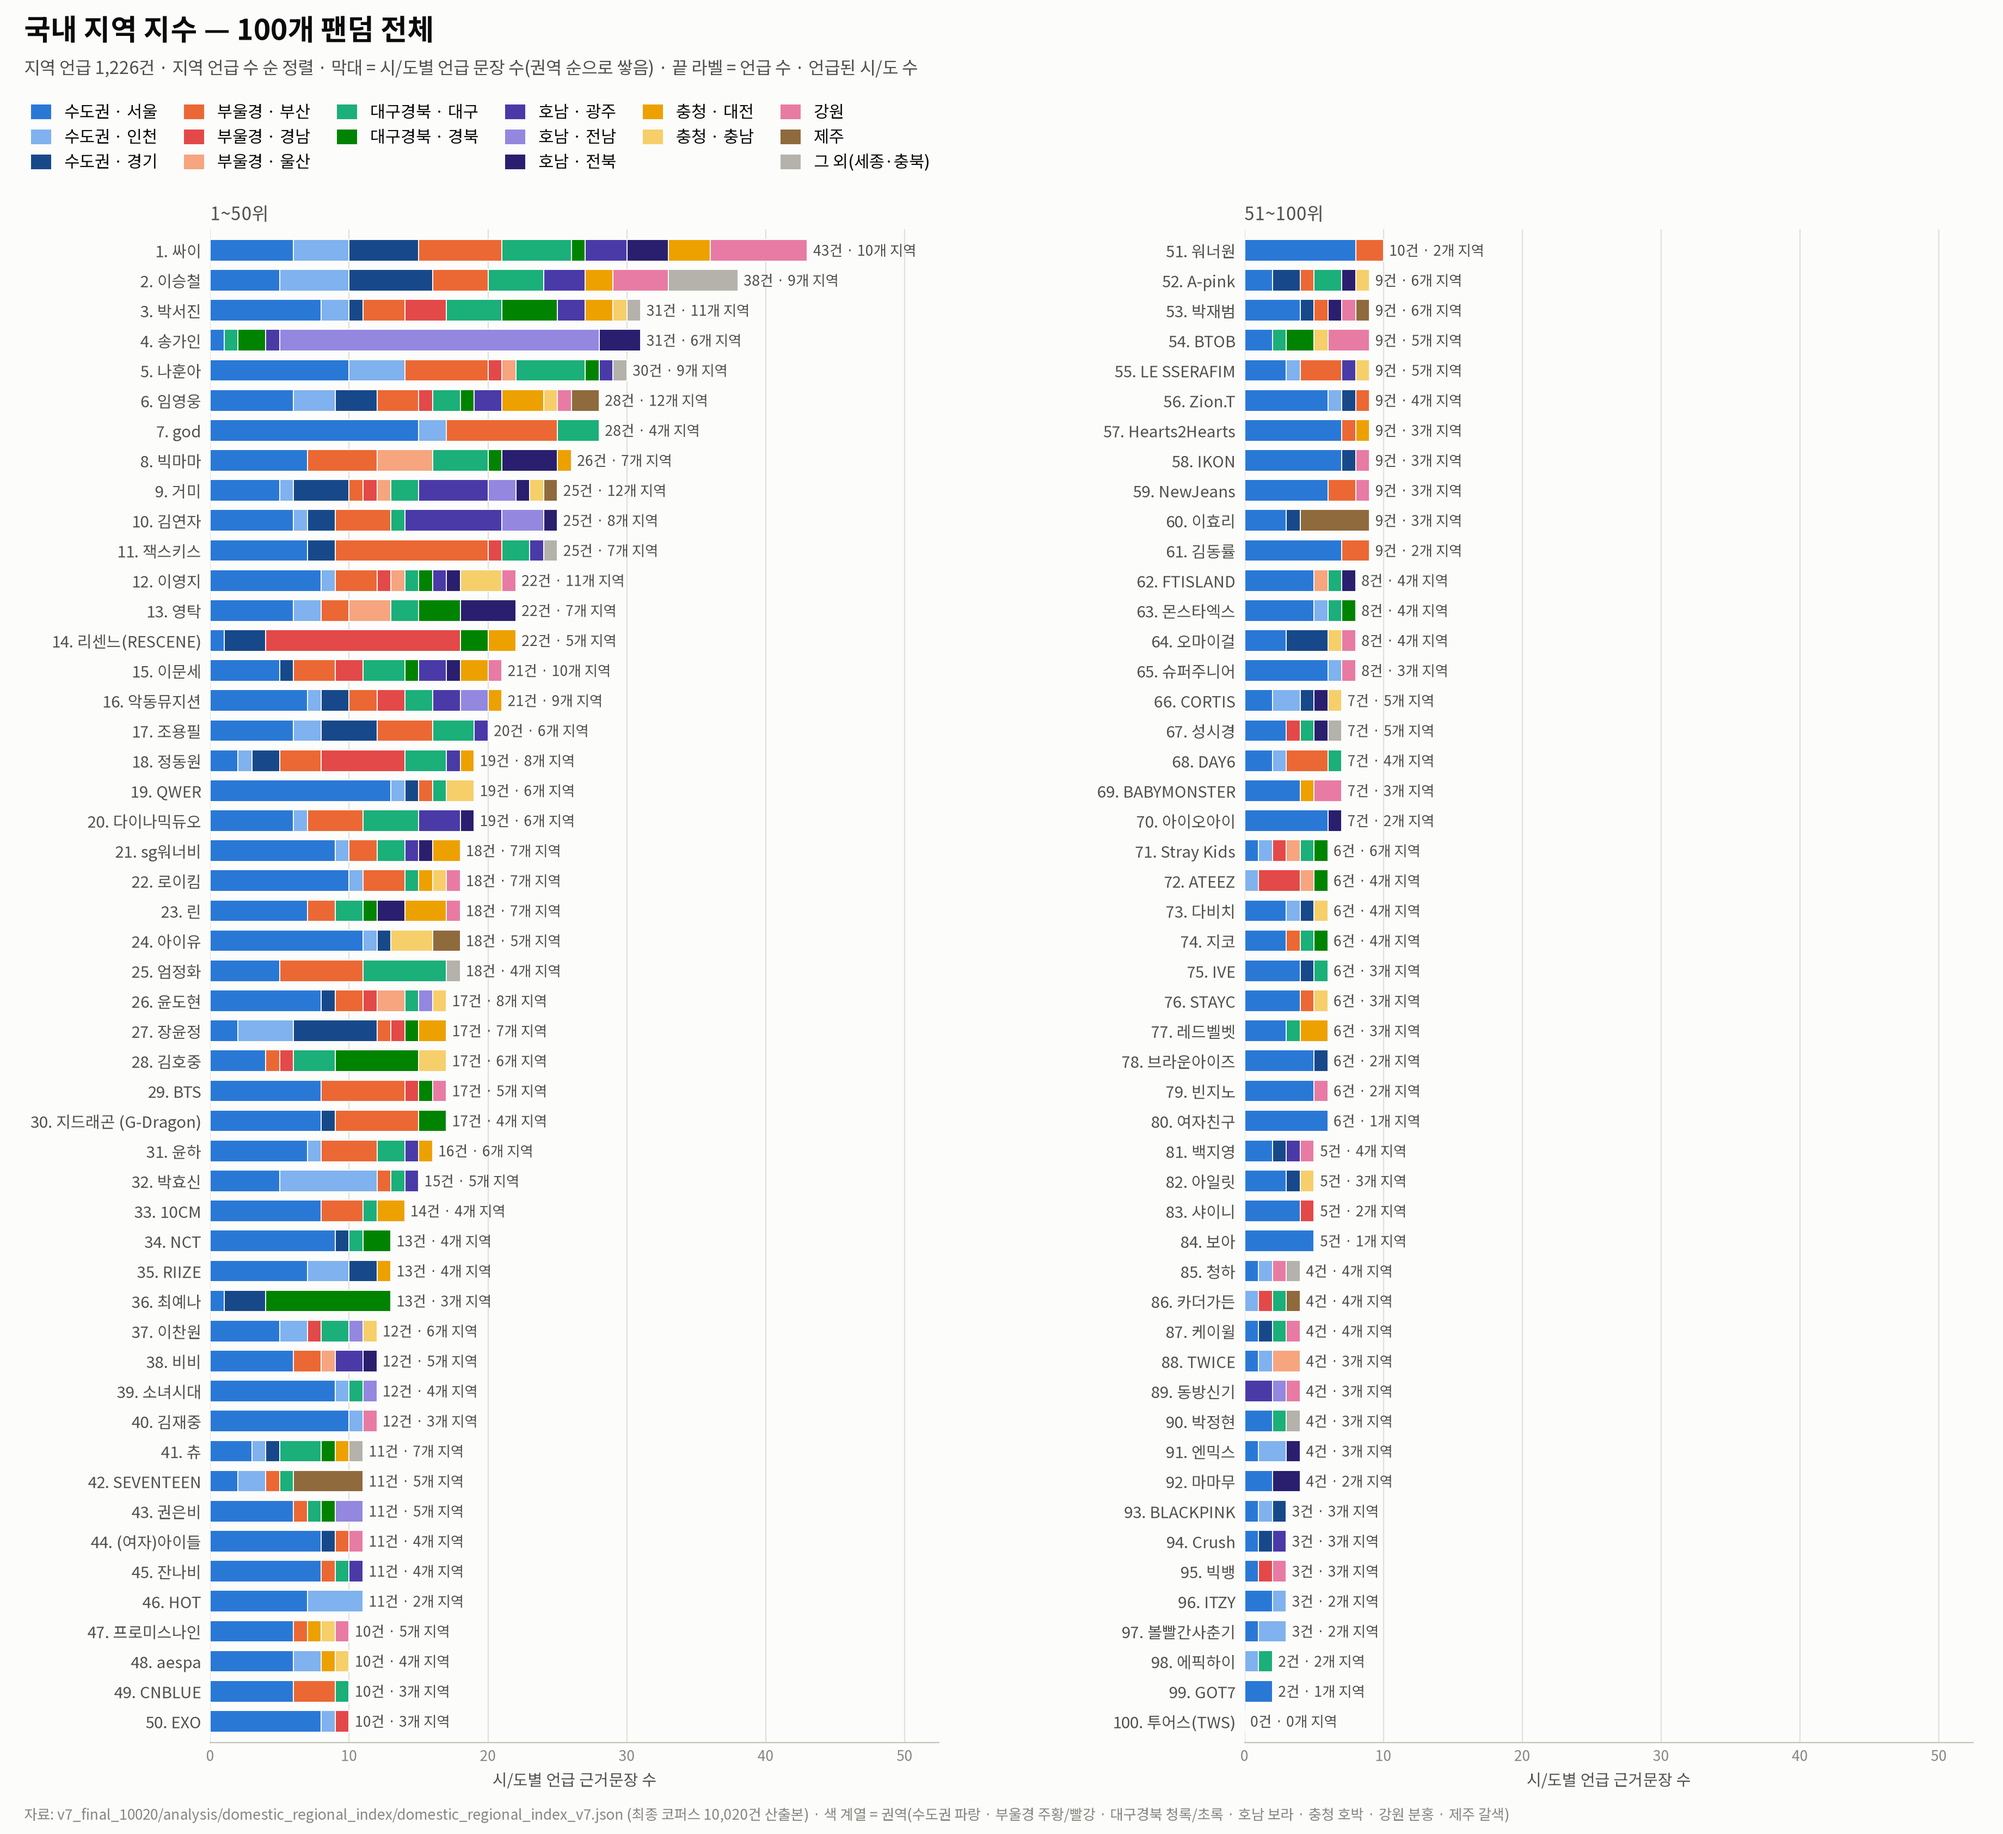
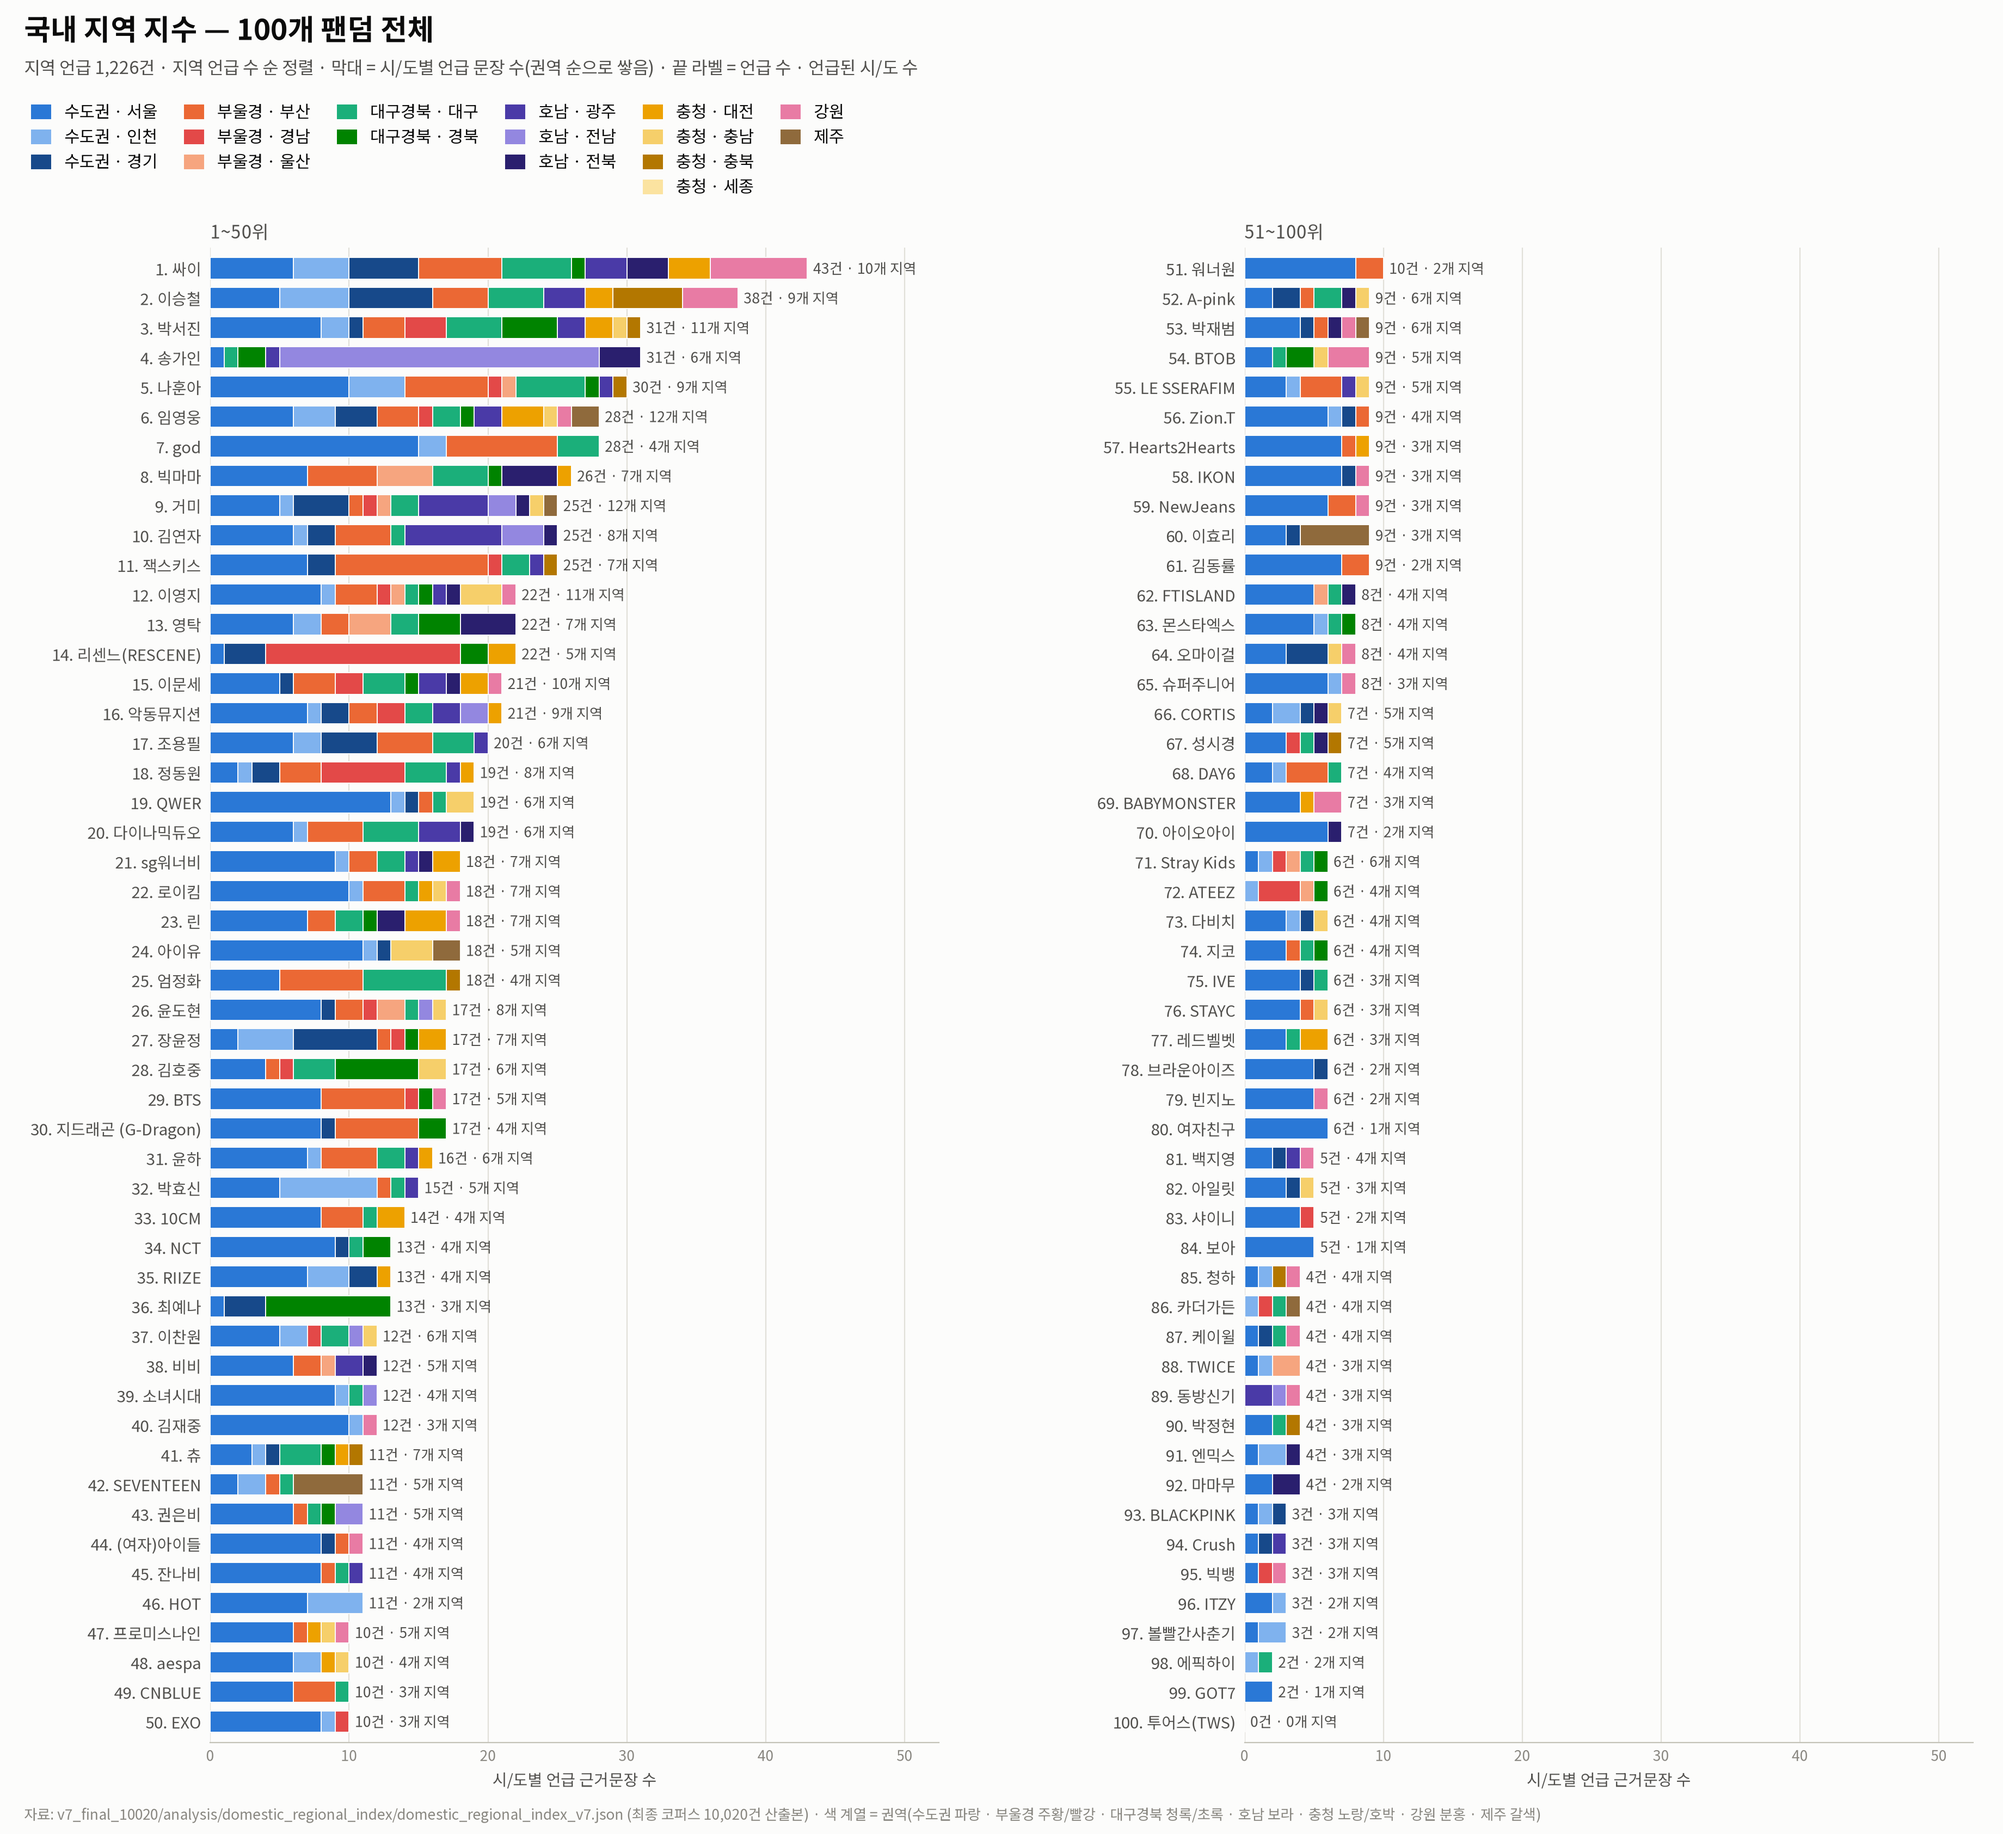
국내 지역 지수 100개 팬덤 그래프: 세종·충북도 충청 노랑 계열로 표시 — 17개 시/도 전부 색 구분
Claude-Session: https://claude.ai/code/session_01VWuqhk8UFpTen2BecLssSX

Changed region(s): [[0.0312, 0.0623, 0.4375, 0.9347], [0.5625, 0.1246, 0.75, 0.9036], [0.6875, 0.9659, 0.75, 0.997]]

diff --git a/v7_final_10020/charts/build_aux_indices_100_v7.py b/v7_final_10020/charts/build_aux_indices_100_v7.py
@@ -6,7 +6,7 @@ README 6절의 그림은 상위 20·25개만 보여 주므로, 같은 지표를 
   aux2_media_exposure_100.png       미디어·콘텐츠 노출 지수 — 예능·유튜브·영화·드라마 누적 막대
   aux3_fandom_cohesion_100.png      팬덤결속 지수 — 결속 유형 A~E 누적 막대
   aux4_media_crossover_100.png      매체 크로스오버 지수 — 서로 다른 뉴스 매체 수
-  aux5_domestic_regional_100.png    국내 지역 지수 — 상위 15개 시/도(권역별 색 계열) + 그 외 누적 막대
+  aux5_domestic_regional_100.png    국내 지역 지수 — 17개 시/도 전부(권역별 색 계열) 누적 막대
   aux6_member_mci_45.png            멤버 집중도(MCI) — 45개 그룹, 구조적 하한 1/멤버수 표시
   aux7_worldwide_language_100.png   세계 언어 지수 — 해외언어 구성(상위 7개 언어 + 그 외) 누적 막대
 
@@ -185,9 +185,9 @@ stacked_100(rows, ["outlets"], [SERIES[0]], ["서로 다른 뉴스 매체 수"],
             "aux4_media_crossover_100.png")
 
 # ---- 5. 국내 지역 ----------------------------------------------------------------
-# 상위 15개 시/도를 권역별 색 계열로 칠한다: 같은 권역은 같은 색상(hue)의 명도 단계, 누적 막대도 권역 순서로 쌓는다.
+# 17개 시/도 전부를 권역별 색 계열로 칠한다: 같은 권역은 같은 색상(hue)의 명도 단계, 누적 막대도 권역 순서로 쌓는다.
 #   수도권(서울·인천·경기)=파랑, 부울경(부산·경남·울산)=주황/빨강, 대구경북(대구·경북)=청록/초록,
-#   호남(광주·전남·전북)=보라, 충청(대전·충남)=호박색, 강원=분홍, 제주=갈색, 나머지(충북·세종)=회색
+#   호남(광주·전남·전북)=보라, 충청(대전·충남·충북·세종)=노랑/호박, 강원=분홍, 제주=갈색 — 17개 시/도 전부 표시
 dr = load(BASE / "v7_final_10020" / "analysis" / "domestic_regional_index" / "domestic_regional_index_v7.json")
 rtot = {}
 for v in dr.values():
@@ -198,30 +198,28 @@ REGION_STYLE = [  # (시/도, 색) — 권역 순서
     ("부산", "#eb6834"), ("경남", "#e34948"), ("울산", "#f6a57f"),
     ("대구", "#1baf7a"), ("경북", "#008300"),
     ("광주", "#4a3aa7"), ("전남", "#9387e0"), ("전북", "#2a1f6e"),
-    ("대전", "#eda100"), ("충남", "#f6cf6a"),
+    ("대전", "#eda100"), ("충남", "#f6cf6a"), ("충북", "#b37700"), ("세종", "#fbe3a0"),
     ("강원", "#e87ba4"),
     ("제주", "#8f6a3c"),
 ]
-reg15 = [k for k, _ in REGION_STYLE]
-assert set(reg15) == set(top_keys(rtot, 15)), "상위 15개 시/도가 바뀌면 REGION_STYLE을 갱신하세요"
-rest = [k for k in rtot if k not in reg15]
+reg15 = [k for k, _ in REGION_STYLE]   # 17개 전부
+assert set(reg15) == set(rtot), "17개 시/도 전부가 REGION_STYLE에 있어야 합니다"
 rows = []
 for name, v in dr.items():
     rc = v["region_mention_counts"]
     d = {k: rc.get(k, 0) for k in reg15}
-    d["_other"] = sum(rc.get(k, 0) for k in rest)
     rows.append((name, d, (v["total_region_mentions"], v["n_regions_hit"], v.get("region_diversity", 0))))
 rows.sort(key=lambda r: (-r[2][0], -r[2][1], r[0]))
-stacked_100(rows, reg15 + ["_other"], [c for _, c in REGION_STYLE] + [OTHER],
+stacked_100(rows, reg15, [c for _, c in REGION_STYLE],
             ["수도권 · 서울", "수도권 · 인천", "수도권 · 경기", "부울경 · 부산", "부울경 · 경남", "부울경 · 울산", "대구경북 · 대구", "대구경북 · 경북",
-             "호남 · 광주", "호남 · 전남", "호남 · 전북", "충청 · 대전", "충청 · 충남", "강원", "제주"] + [f"그 외({'·'.join(sorted(rest))})"],
+             "호남 · 광주", "호남 · 전남", "호남 · 전북", "충청 · 대전", "충청 · 충남", "충청 · 충북", "충청 · 세종", "강원", "제주"],
             lambda r: f"{r[2][0]}건 · {r[2][1]}개 지역",
             "국내 지역 지수 — 100개 팬덤 전체",
             f"지역 언급 {sum(rtot.values()):,}건 · 지역 언급 수 순 정렬 · 막대 = 시/도별 언급 문장 수(권역 순으로 쌓음) · 끝 라벨 = 언급 수 · 언급된 시/도 수",
             "시/도별 언급 근거문장 수",
-            "자료: v7_final_10020/analysis/domestic_regional_index/domestic_regional_index_v7.json (최종 코퍼스 10,020건 산출본) · 색 계열 = 권역(수도권 파랑 · 부울경 주황/빨강 · 대구경북 청록/초록 · 호남 보라 · 충청 호박 · 강원 분홍 · 제주 갈색)",
-            "aux5_domestic_regional_100.png", top=0.875,
-            legend_columns=[[0, 1, 2], [3, 4, 5], [6, 7], [8, 9, 10], [11, 12], [13, 14, 15]])
+            "자료: v7_final_10020/analysis/domestic_regional_index/domestic_regional_index_v7.json (최종 코퍼스 10,020건 산출본) · 색 계열 = 권역(수도권 파랑 · 부울경 주황/빨강 · 대구경북 청록/초록 · 호남 보라 · 충청 노랑/호박 · 강원 분홍 · 제주 갈색)",
+            "aux5_domestic_regional_100.png", top=0.865,
+            legend_columns=[[0, 1, 2], [3, 4, 5], [6, 7], [8, 9, 10], [11, 12, 13, 14], [15, 16]])
 
 # ---- 6. 멤버 집중도 MCI (45개 그룹) ------------------------------------------------
 mi = load(D / "member_mention_index_v7.json")
